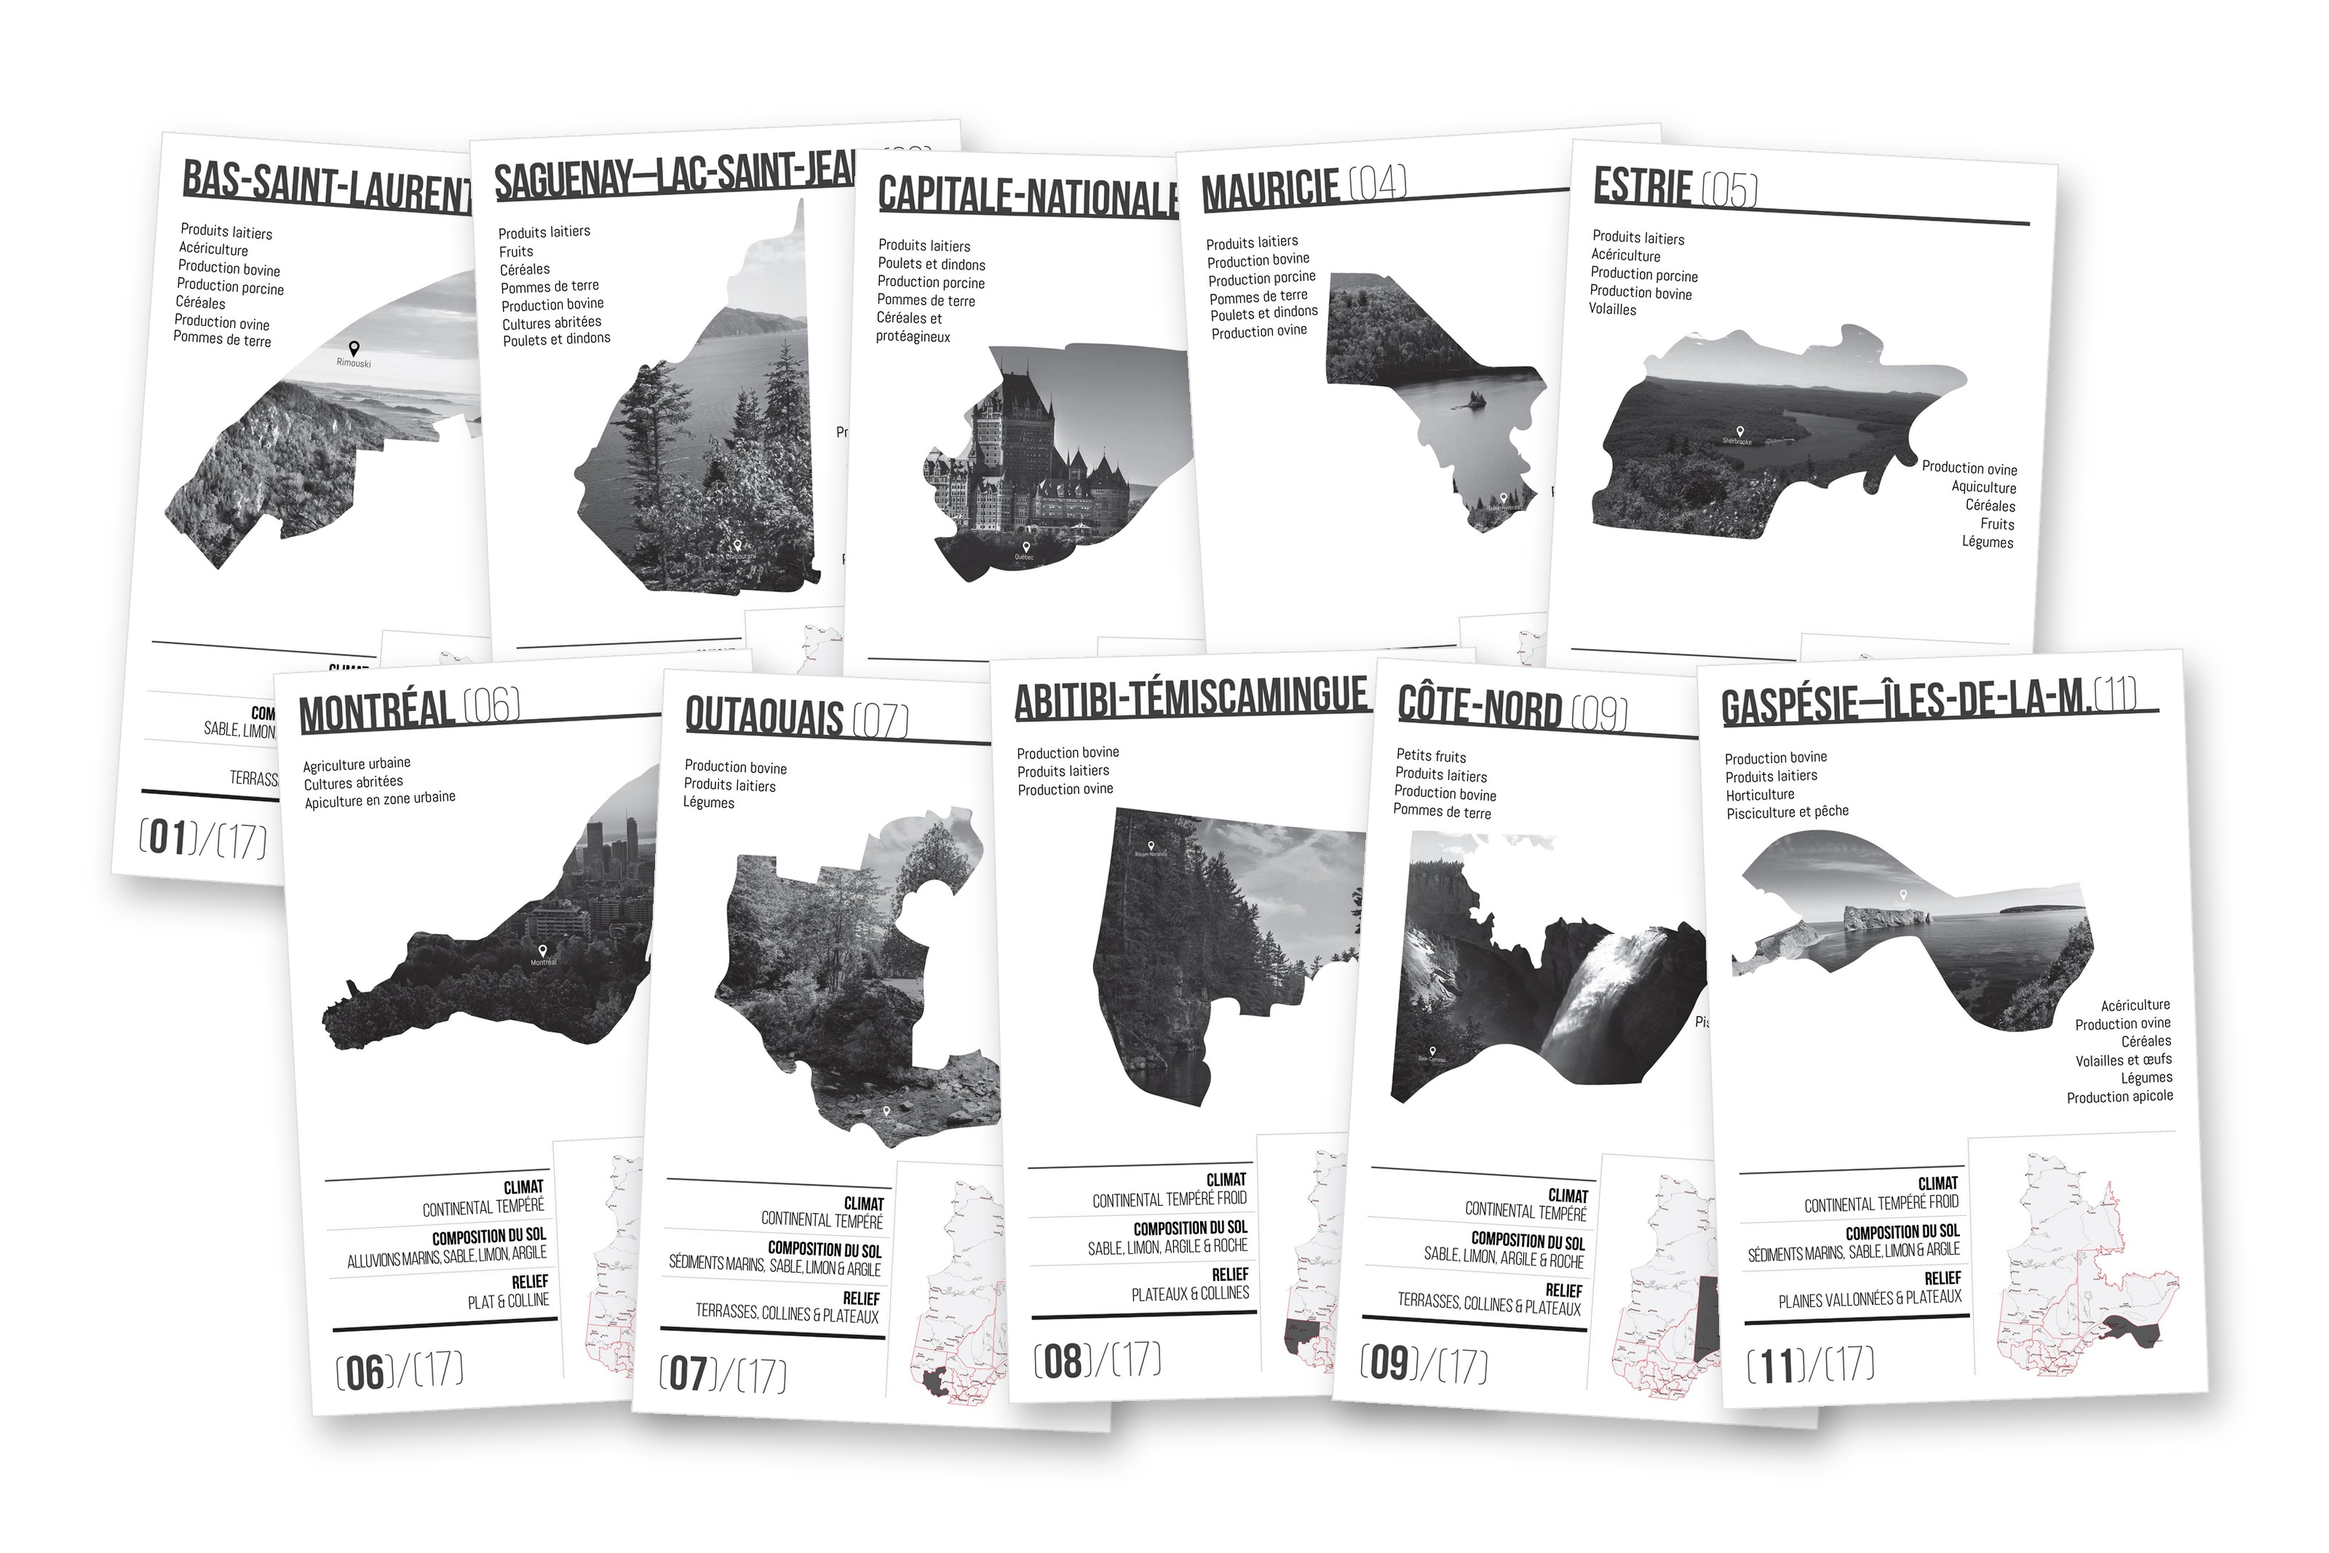
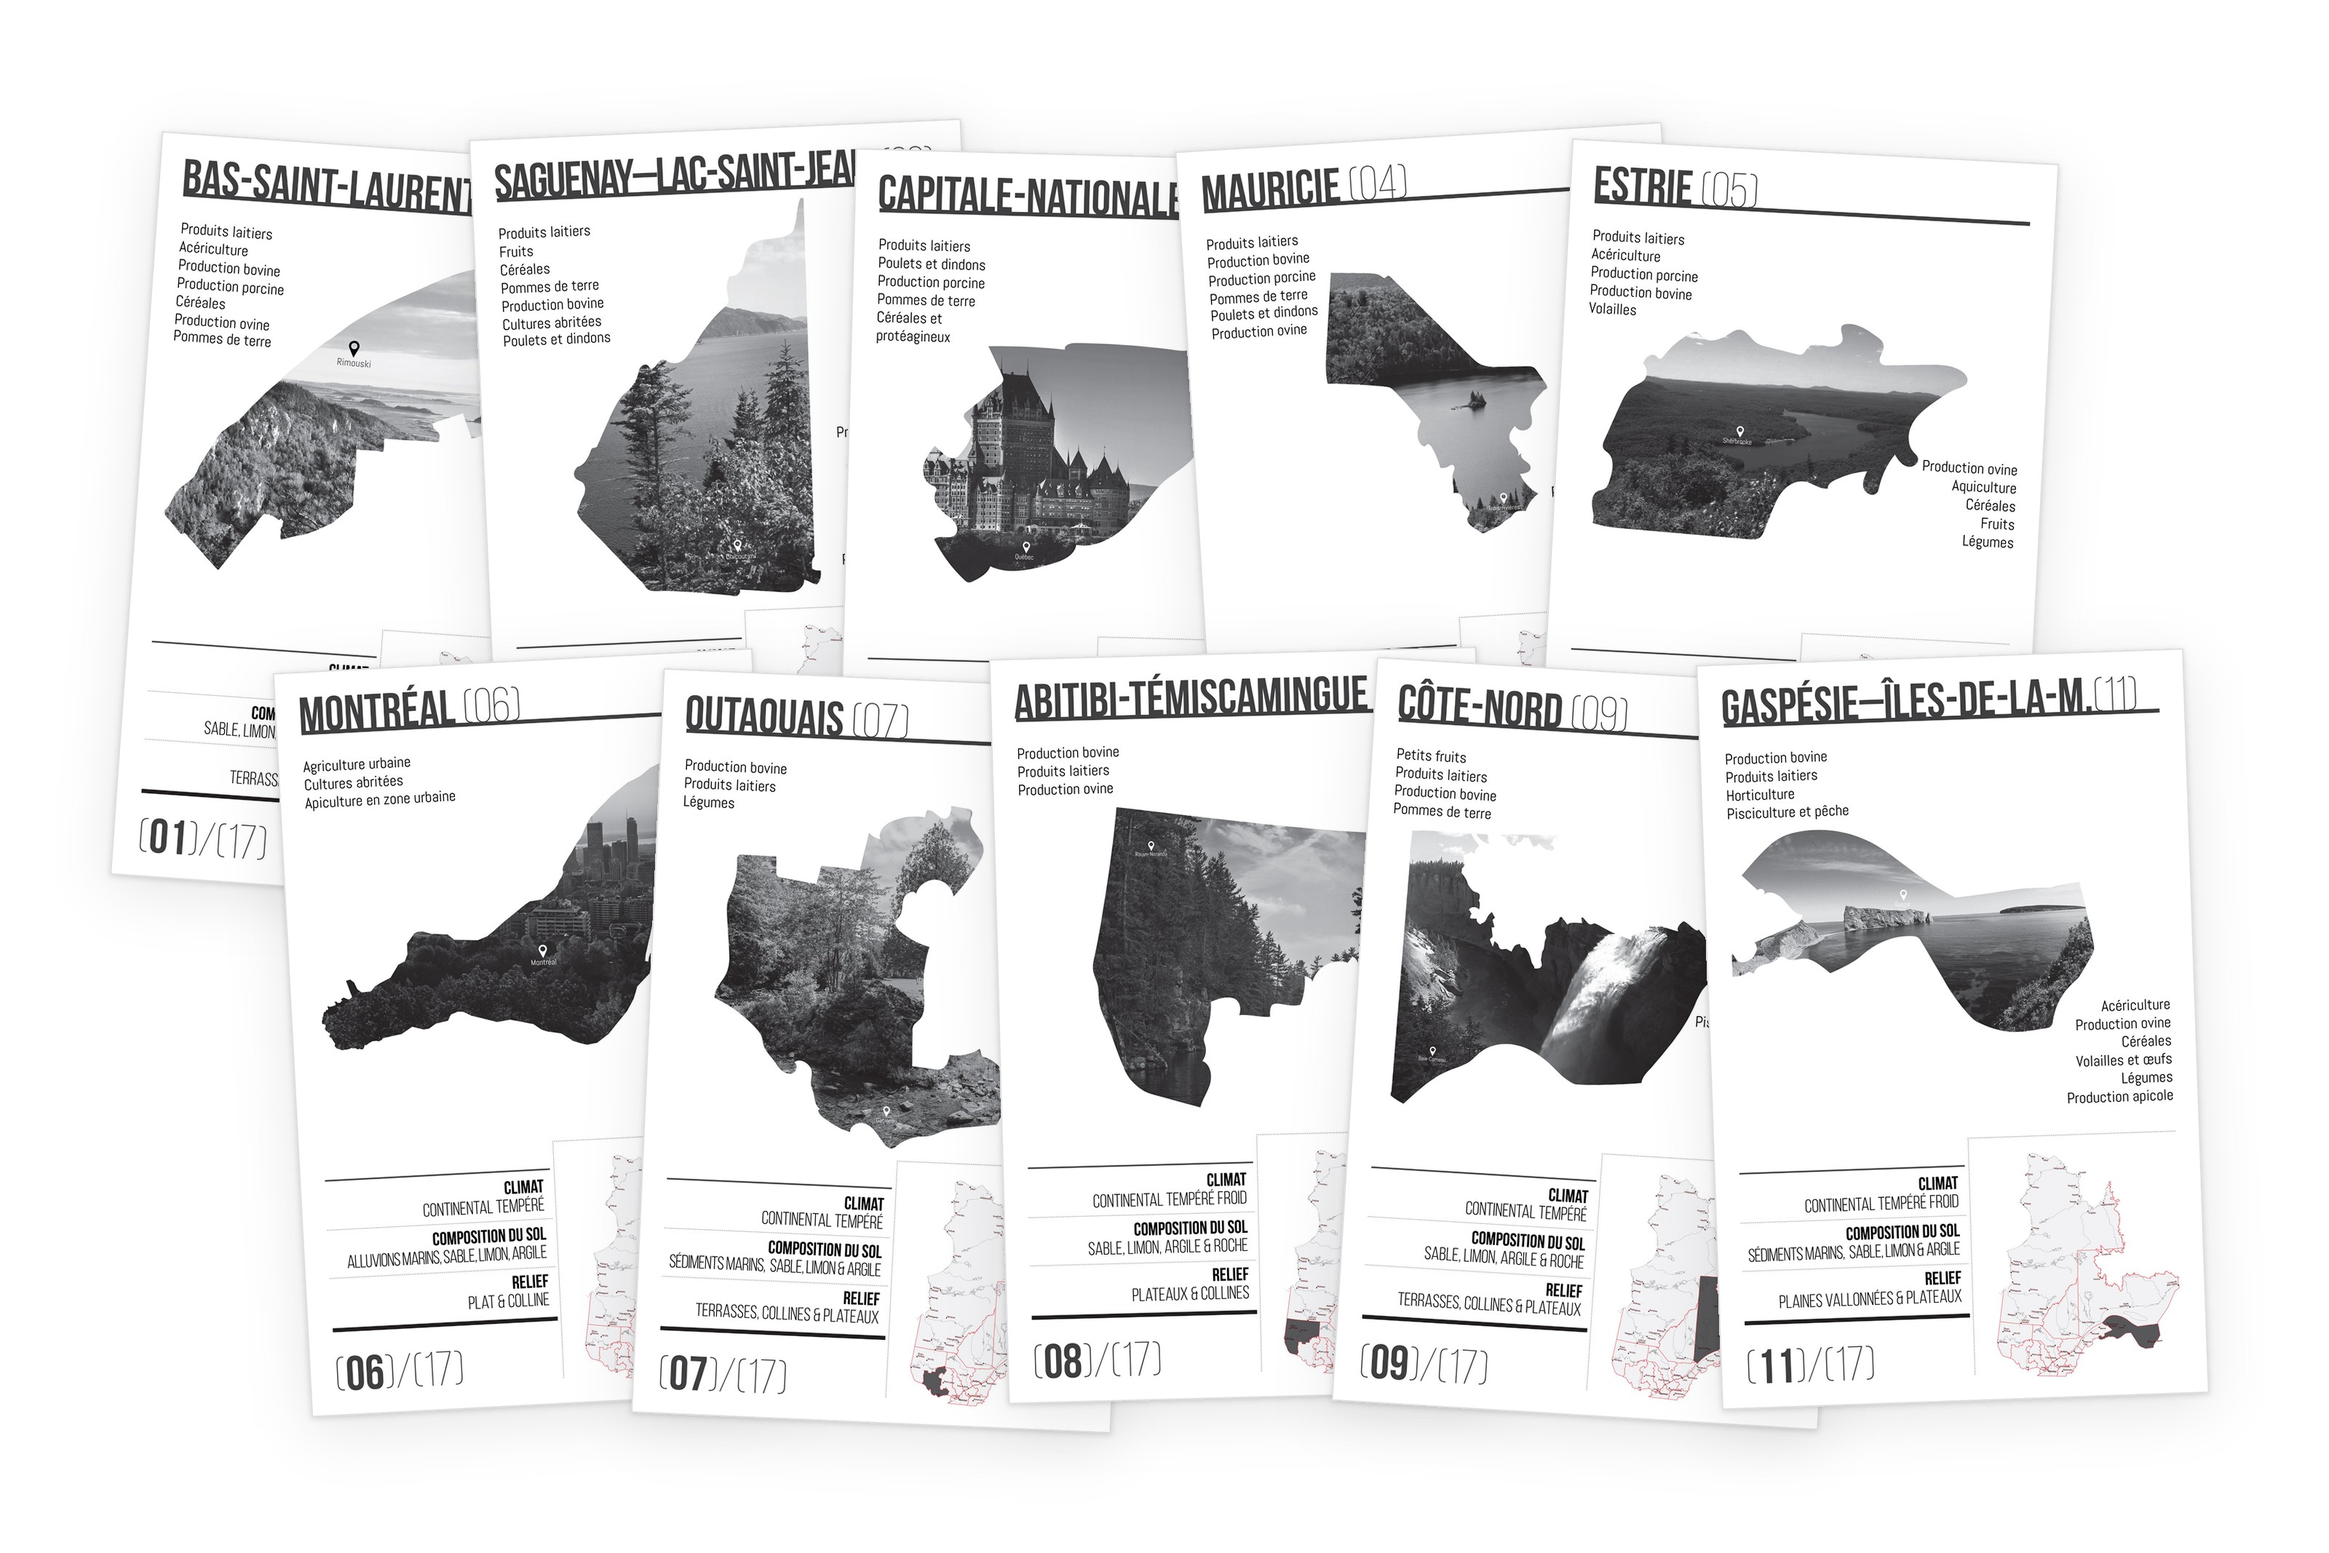
Montage affiches : ombres discrètes et réalistes
Claude-Session: https://claude.ai/code/session_01FKFqK337QXd13vxEJ79W3Y

Changed region(s): [[0.125, 0.433, 0.9688, 0.9588], [0.875, 0.1237, 0.9062, 0.4021], [0.0625, 0.5567, 0.125, 0.5876]]

diff --git a/assets/projects.js b/assets/projects.js
@@ -40,7 +40,7 @@ const PROJECTS = [
   { client: "Private", clientFr: "Privé", type: { en: "brochure cover", fr: "couverture de brochure" }, field: { en: "Design", fr: "Design" }, cat: "editorial", year: "2026", img: "images/couverture-brochure.jpg" },
   { client: "Fresh from the farm", clientFr: "En direct de la ferme", type: { en: "annual report", fr: "bilan annuel" }, field: { en: "Distributor", fr: "Distributeur" }, cat: "editorial", year: "2026", img: "images/bilan-annuel.jpg" },
   { client: "Québec Amérique", type: { en: "cover illustration", fr: "illustration de couverture" }, field: { en: "Publisher", fr: "Éditeur" }, cat: "editorial", year: "2026", img: "images/illustration-livre.jpg" },
-  { client: "Épicerie les récoltes", type: { en: "poster", fr: "affiche" }, field: { en: "Grocery", fr: "Épicerie" }, cat: "editorial", year: "2026", img: "images/Affiche/affiches-regions.jpg?v=hr2" },
+  { client: "Épicerie les récoltes", type: { en: "poster", fr: "affiche" }, field: { en: "Grocery", fr: "Épicerie" }, cat: "editorial", year: "2026", img: "images/Affiche/affiches-regions.jpg?v=hr3" },
   { client: "Convatec", type: { en: "product catalog", fr: "catalogue de produits" }, field: { en: "Pharmaceutical", fr: "Pharmaceutique" }, cat: "editorial", year: "2023", img: "images/Catalogue/Catalog.png" },
 
   // ── web : aperçu du site en direct ────────────────────

diff --git a/portfolio-vi.html b/portfolio-vi.html
@@ -20,7 +20,7 @@
   <link rel="preconnect" href="https://fonts.googleapis.com">
   <link rel="preconnect" href="https://fonts.gstatic.com" crossorigin>
   <link href="https://fonts.googleapis.com/css2?family=Be+Vietnam+Pro:ital,wght@0,400;0,500;1,400&family=Damion&family=Pacifico&display=swap" rel="stylesheet">
-  <link rel="stylesheet" href="assets/style.css?v=20261029-42">
+  <link rel="stylesheet" href="assets/style.css?v=20261029-43">
 </head>
 <body class="theme-white">
 
@@ -71,8 +71,8 @@
 </div>
 
 
-<script src="assets/projects.js?v=20261029-42"></script>
-<script src="assets/portfolio.js?v=20261029-42"></script>
-<script src="assets/site.js?v=20261029-42"></script>
+<script src="assets/projects.js?v=20261029-43"></script>
+<script src="assets/portfolio.js?v=20261029-43"></script>
+<script src="assets/site.js?v=20261029-43"></script>
 </body>
 </html>

diff --git a/portfolio-fr.html b/portfolio-fr.html
@@ -20,7 +20,7 @@
   <link rel="preconnect" href="https://fonts.googleapis.com">
   <link rel="preconnect" href="https://fonts.gstatic.com" crossorigin>
   <link href="https://fonts.googleapis.com/css2?family=Damion&family=Jost:ital,wght@0,400;0,500;1,400&display=swap" rel="stylesheet">
-  <link rel="stylesheet" href="assets/style.css?v=20261029-42">
+  <link rel="stylesheet" href="assets/style.css?v=20261029-43">
 </head>
 <body class="theme-white">
 
@@ -71,8 +71,8 @@
 </div>
 
 
-<script src="assets/projects.js?v=20261029-42"></script>
-<script src="assets/portfolio.js?v=20261029-42"></script>
-<script src="assets/site.js?v=20261029-42"></script>
+<script src="assets/projects.js?v=20261029-43"></script>
+<script src="assets/portfolio.js?v=20261029-43"></script>
+<script src="assets/site.js?v=20261029-43"></script>
 </body>
 </html>

diff --git a/portfolio.html b/portfolio.html
@@ -20,7 +20,7 @@
   <link rel="preconnect" href="https://fonts.googleapis.com">
   <link rel="preconnect" href="https://fonts.gstatic.com" crossorigin>
   <link href="https://fonts.googleapis.com/css2?family=Damion&family=Jost:ital,wght@0,400;0,500;1,400&display=swap" rel="stylesheet">
-  <link rel="stylesheet" href="assets/style.css?v=20261029-42">
+  <link rel="stylesheet" href="assets/style.css?v=20261029-43">
 </head>
 <body class="theme-white">
 
@@ -71,8 +71,8 @@
 </div>
 
 
-<script src="assets/projects.js?v=20261029-42"></script>
-<script src="assets/portfolio.js?v=20261029-42"></script>
-<script src="assets/site.js?v=20261029-42"></script>
+<script src="assets/projects.js?v=20261029-43"></script>
+<script src="assets/portfolio.js?v=20261029-43"></script>
+<script src="assets/site.js?v=20261029-43"></script>
 </body>
 </html>

diff --git a/secureform-vi.html b/secureform-vi.html
@@ -20,7 +20,7 @@
   <link rel="preconnect" href="https://fonts.googleapis.com">
   <link rel="preconnect" href="https://fonts.gstatic.com" crossorigin>
   <link href="https://fonts.googleapis.com/css2?family=Be+Vietnam+Pro:ital,wght@0,400;0,500;1,400&family=Damion&family=Pacifico&display=swap" rel="stylesheet">
-  <link rel="stylesheet" href="assets/style.css?v=20261029-42">
+  <link rel="stylesheet" href="assets/style.css?v=20261029-43">
 </head>
 <body class="theme-red contact-page">
 
@@ -97,7 +97,7 @@
 </main>
 
 
-<script src="assets/contact.js?v=20261029-42"></script>
-<script src="assets/site.js?v=20261029-42"></script>
+<script src="assets/contact.js?v=20261029-43"></script>
+<script src="assets/site.js?v=20261029-43"></script>
 </body>
 </html>

diff --git a/secureform-fr.html b/secureform-fr.html
@@ -20,7 +20,7 @@
   <link rel="preconnect" href="https://fonts.googleapis.com">
   <link rel="preconnect" href="https://fonts.gstatic.com" crossorigin>
   <link href="https://fonts.googleapis.com/css2?family=Damion&family=Jost:ital,wght@0,400;0,500;1,400&display=swap" rel="stylesheet">
-  <link rel="stylesheet" href="assets/style.css?v=20261029-42">
+  <link rel="stylesheet" href="assets/style.css?v=20261029-43">
 </head>
 <body class="theme-red contact-page">
 
@@ -97,7 +97,7 @@
 </main>
 
 
-<script src="assets/contact.js?v=20261029-42"></script>
-<script src="assets/site.js?v=20261029-42"></script>
+<script src="assets/contact.js?v=20261029-43"></script>
+<script src="assets/site.js?v=20261029-43"></script>
 </body>
 </html>

diff --git a/secureform.html b/secureform.html
@@ -20,7 +20,7 @@
   <link rel="preconnect" href="https://fonts.googleapis.com">
   <link rel="preconnect" href="https://fonts.gstatic.com" crossorigin>
   <link href="https://fonts.googleapis.com/css2?family=Damion&family=Jost:ital,wght@0,400;0,500;1,400&display=swap" rel="stylesheet">
-  <link rel="stylesheet" href="assets/style.css?v=20261029-42">
+  <link rel="stylesheet" href="assets/style.css?v=20261029-43">
 </head>
 <body class="theme-red contact-page">
 
@@ -97,7 +97,7 @@
 </main>
 
 
-<script src="assets/contact.js?v=20261029-42"></script>
-<script src="assets/site.js?v=20261029-42"></script>
+<script src="assets/contact.js?v=20261029-43"></script>
+<script src="assets/site.js?v=20261029-43"></script>
 </body>
 </html>

diff --git a/index-vi.html b/index-vi.html
@@ -20,7 +20,7 @@
   <link rel="preconnect" href="https://fonts.googleapis.com">
   <link rel="preconnect" href="https://fonts.gstatic.com" crossorigin>
   <link href="https://fonts.googleapis.com/css2?family=Be+Vietnam+Pro:ital,wght@0,400;0,500;1,400&family=Damion&family=Pacifico&display=swap" rel="stylesheet">
-  <link rel="stylesheet" href="assets/style.css?v=20261029-42">
+  <link rel="stylesheet" href="assets/style.css?v=20261029-43">
   <script>
     // Accueil : une combinaison de couleurs au hasard, jamais deux fois la même de suite
     (function () {
@@ -69,6 +69,6 @@
 </main>
 
 
-<script src="assets/site.js?v=20261029-42"></script>
+<script src="assets/site.js?v=20261029-43"></script>
 </body>
 </html>

diff --git a/index-fr.html b/index-fr.html
@@ -20,7 +20,7 @@
   <link rel="preconnect" href="https://fonts.googleapis.com">
   <link rel="preconnect" href="https://fonts.gstatic.com" crossorigin>
   <link href="https://fonts.googleapis.com/css2?family=Damion&family=Jost:ital,wght@0,400;0,500;1,400&display=swap" rel="stylesheet">
-  <link rel="stylesheet" href="assets/style.css?v=20261029-42">
+  <link rel="stylesheet" href="assets/style.css?v=20261029-43">
   <script>
     // Accueil : une combinaison de couleurs au hasard, jamais deux fois la même de suite
     (function () {
@@ -69,6 +69,6 @@
 </main>
 
 
-<script src="assets/site.js?v=20261029-42"></script>
+<script src="assets/site.js?v=20261029-43"></script>
 </body>
 </html>

diff --git a/index.html b/index.html
@@ -20,7 +20,7 @@
   <link rel="preconnect" href="https://fonts.googleapis.com">
   <link rel="preconnect" href="https://fonts.gstatic.com" crossorigin>
   <link href="https://fonts.googleapis.com/css2?family=Damion&family=Jost:ital,wght@0,400;0,500;1,400&display=swap" rel="stylesheet">
-  <link rel="stylesheet" href="assets/style.css?v=20261029-42">
+  <link rel="stylesheet" href="assets/style.css?v=20261029-43">
   <script>
     // Accueil : une combinaison de couleurs au hasard, jamais deux fois la même de suite
     (function () {
@@ -69,6 +69,6 @@
 </main>
 
 
-<script src="assets/site.js?v=20261029-42"></script>
+<script src="assets/site.js?v=20261029-43"></script>
 </body>
 </html>

diff --git a/about-vi.html b/about-vi.html
@@ -20,7 +20,7 @@
   <link rel="preconnect" href="https://fonts.googleapis.com">
   <link rel="preconnect" href="https://fonts.gstatic.com" crossorigin>
   <link href="https://fonts.googleapis.com/css2?family=Be+Vietnam+Pro:ital,wght@0,400;0,500;1,400&family=Damion&family=Pacifico&display=swap" rel="stylesheet">
-  <link rel="stylesheet" href="assets/style.css?v=20261029-42">
+  <link rel="stylesheet" href="assets/style.css?v=20261029-43">
 </head>
 <body class="theme-ochre">
 
@@ -90,6 +90,6 @@
 </main>
 
 
-<script src="assets/site.js?v=20261029-42"></script>
+<script src="assets/site.js?v=20261029-43"></script>
 </body>
 </html>

diff --git a/about-fr.html b/about-fr.html
@@ -20,7 +20,7 @@
   <link rel="preconnect" href="https://fonts.googleapis.com">
   <link rel="preconnect" href="https://fonts.gstatic.com" crossorigin>
   <link href="https://fonts.googleapis.com/css2?family=Damion&family=Jost:ital,wght@0,400;0,500;1,400&display=swap" rel="stylesheet">
-  <link rel="stylesheet" href="assets/style.css?v=20261029-42">
+  <link rel="stylesheet" href="assets/style.css?v=20261029-43">
 </head>
 <body class="theme-ochre">
 
@@ -90,6 +90,6 @@
 </main>
 
 
-<script src="assets/site.js?v=20261029-42"></script>
+<script src="assets/site.js?v=20261029-43"></script>
 </body>
 </html>
